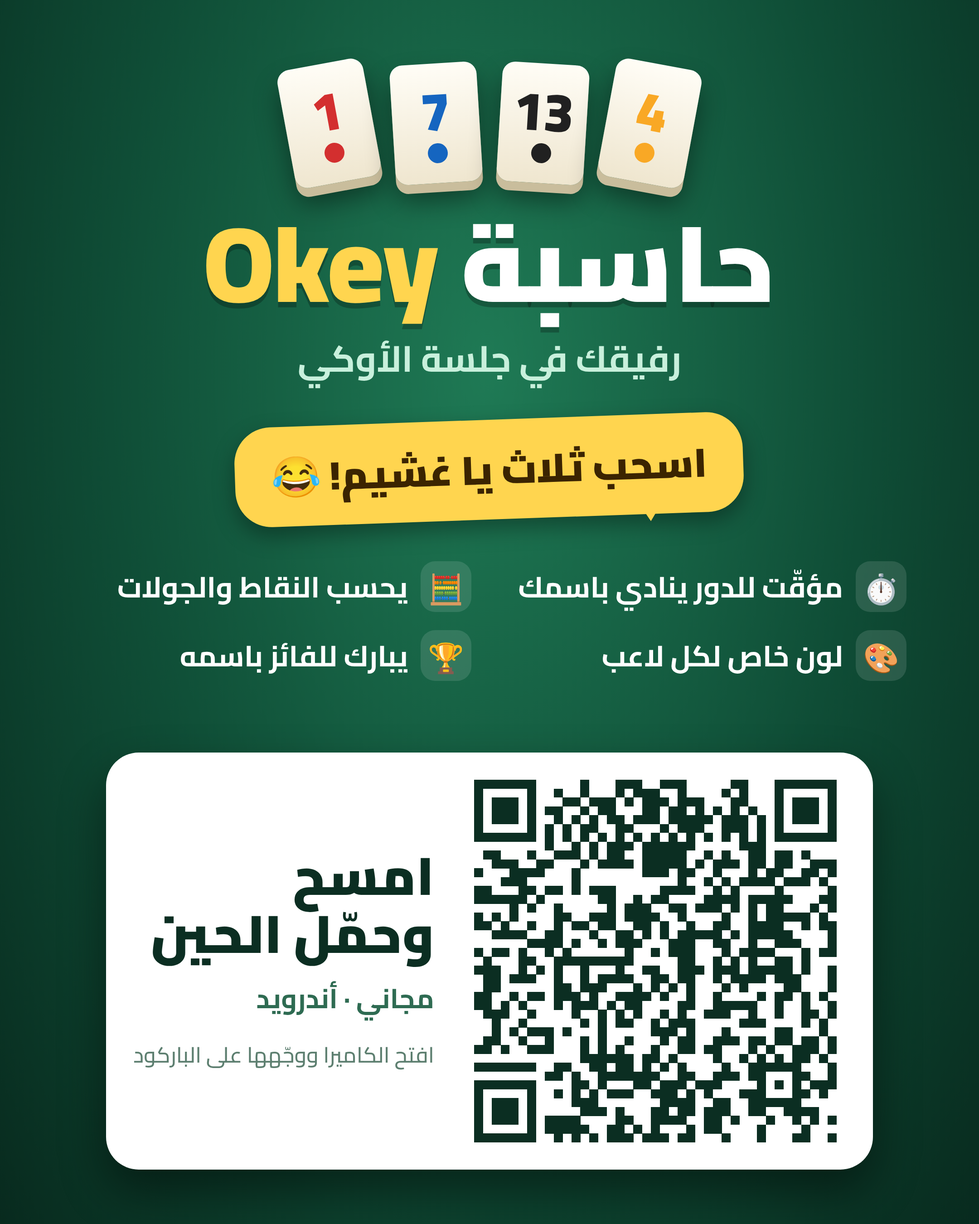
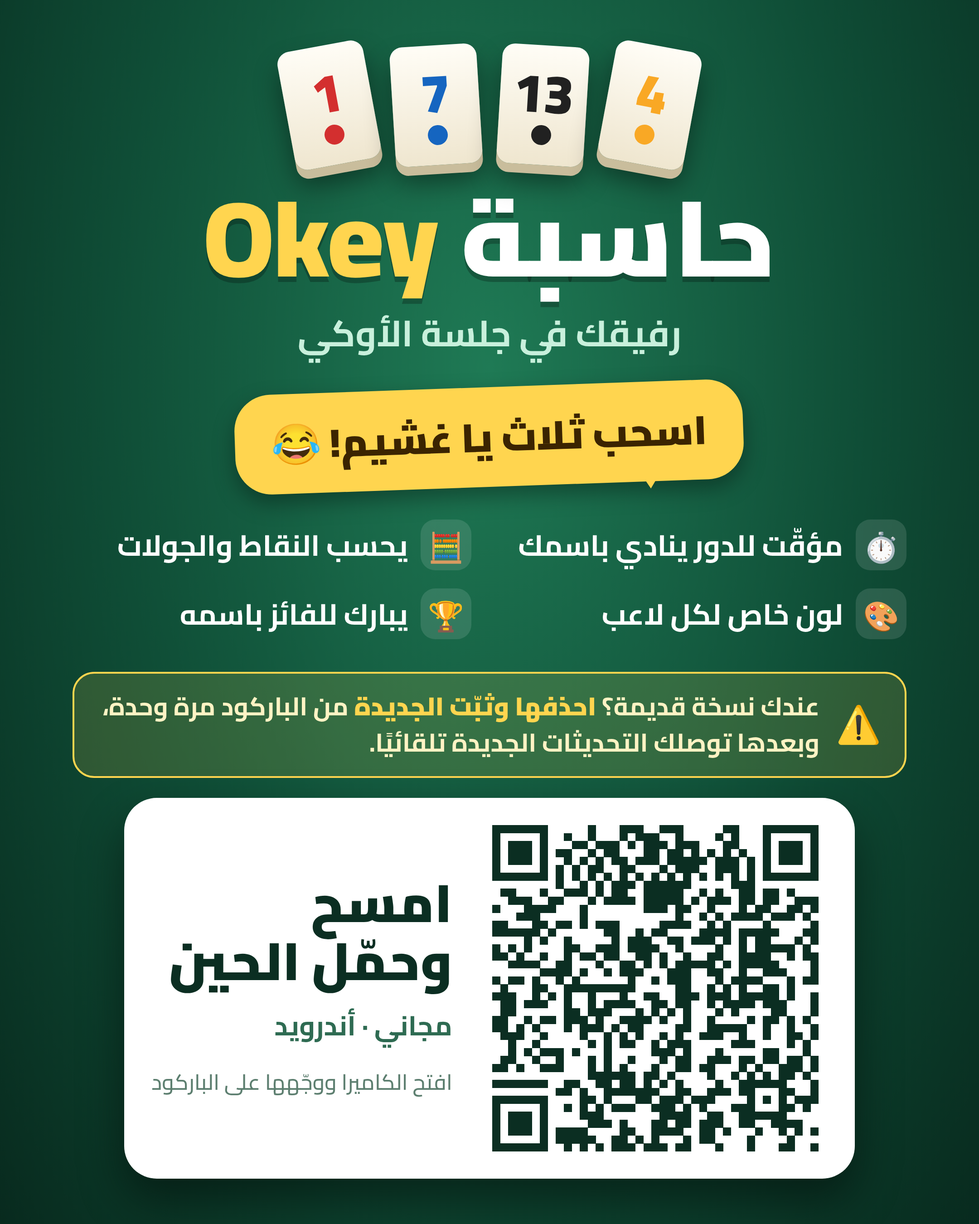
Poster: ask owners of the old build to reinstall once
Claude-Session: https://claude.ai/code/session_018ysiZqBb7QEeYJYqKRJgx6

Changed region(s): [[0.062, 0.0311, 0.9306, 0.9644]]

diff --git a/marketing/okey-ad.html b/marketing/okey-ad.html
@@ -4,8 +4,8 @@
 *{box-sizing:border-box;margin:0}
 body{width:1080px;height:1350px;font-family:Cairo,sans-serif;color:#fff;overflow:hidden;
 background:radial-gradient(ellipse at 50% 30%,#1f7a55 0%,#0f4d36 55%,#082a1e 100%)}
-.wrap{position:relative;height:100%;padding:70px 80px 60px;display:flex;flex-direction:column;align-items:center}
-.tiles{display:flex;gap:22px;margin-bottom:26px;direction:ltr}
+.wrap{position:relative;height:100%;padding:50px 80px 50px;display:flex;flex-direction:column;align-items:center}
+.tiles{display:flex;gap:22px;margin-bottom:18px;direction:ltr}
 .tile{width:96px;height:132px;background:linear-gradient(#fffdf6,#efe6cf);border-radius:14px;
 box-shadow:0 10px 0 #c9bd9c,0 18px 30px rgba(0,0,0,.45);transform:rotate(var(--r));display:flex;flex-direction:column;align-items:center;justify-content:center;gap:6px}
 .tile span{font:900 60px/1 Cairo;color:var(--c)}
@@ -13,17 +13,20 @@ box-shadow:0 10px 0 #c9bd9c,0 18px 30px rgba(0,0,0,.45);transform:rotate(var(--r
 h1{font-weight:900;font-size:118px;line-height:1.05;letter-spacing:-1px;text-shadow:0 6px 0 rgba(0,0,0,.25)}
 h1 b{color:#ffd54f}
 .sub{font-size:40px;font-weight:700;color:#c8f0dc;margin-top:6px}
-.bubble{margin-top:30px;background:#ffd54f;color:#3b2400;font-weight:900;font-size:44px;padding:14px 40px;border-radius:40px;position:relative;transform:rotate(-2deg);box-shadow:0 10px 24px rgba(0,0,0,.35)}
+.bubble{margin-top:22px;background:#ffd54f;color:#3b2400;font-weight:900;font-size:44px;padding:14px 40px;border-radius:40px;position:relative;transform:rotate(-2deg);box-shadow:0 10px 24px rgba(0,0,0,.35)}
 .bubble:after{content:"";position:absolute;bottom:-22px;right:90px;border:14px solid transparent;border-top:22px solid #ffd54f}
-.feat{margin-top:44px;display:grid;grid-template-columns:1fr 1fr;gap:16px 40px;font-size:32px;font-weight:700;width:100%}
+.feat{margin-top:34px;display:grid;grid-template-columns:1fr 1fr;gap:16px 40px;font-size:32px;font-weight:700;width:100%}
 .feat div{display:flex;align-items:center;gap:14px}
 .feat em{font-style:normal;width:56px;height:56px;border-radius:16px;background:rgba(255,255,255,.12);display:grid;place-items:center;font-size:32px;flex:none}
-.qrbox{margin-top:auto;display:flex;align-items:center;gap:44px;background:#fff;color:#0b2e22;border-radius:36px;padding:30px 40px 30px 30px;box-shadow:0 24px 50px rgba(0,0,0,.45)}
-.qr{width:400px;height:400px;flex:none}
+.qrbox{display:flex;align-items:center;gap:44px;background:#fff;color:#0b2e22;border-radius:36px;padding:30px 40px 30px 30px;box-shadow:0 24px 50px rgba(0,0,0,.45)}
+.qr{width:360px;height:360px;flex:none}
 .cta{display:flex;flex-direction:column;gap:12px;max-width:380px}
 .cta strong{font-size:58px;font-weight:900;line-height:1.1}
 .cta span{font-size:30px;font-weight:700;color:#2e6b52}
 .cta small{font-size:24px;color:#5d7f70;font-weight:500}
+.note{margin-top:auto;margin-bottom:22px;width:100%;display:flex;align-items:center;gap:18px;background:rgba(255,213,79,.14);border:2px solid #ffd54f;border-radius:24px;padding:16px 26px;font-size:28px;font-weight:700;line-height:1.45;color:#fff3c4}
+.note em{font-style:normal;font-size:40px;flex:none}
+.note b{color:#ffd54f;font-weight:900}
 </style></head><body><div class="wrap">
 <div class="tiles"><div class="tile" style="--c:#d32f2f;--r:-10.5deg"><span>1</span><i></i></div><div class="tile" style="--c:#1565c0;--r:-3.5deg"><span>7</span><i></i></div><div class="tile" style="--c:#212121;--r:3.5deg"><span>13</span><i></i></div><div class="tile" style="--c:#f9a825;--r:10.5deg"><span>4</span><i></i></div></div>
 <h1>حاسبة <b>Okey</b></h1>
@@ -35,6 +38,7 @@ h1 b{color:#ffd54f}
 <div><em>🎨</em>لون خاص لكل لاعب</div>
 <div><em>🏆</em>يبارك للفائز باسمه</div>
 </div>
+<div class="note"><em>⚠</em><div>عندك نسخة قديمة؟ <b>احذفها وثبّت الجديدة</b> من الباركود مرة وحدة، وبعدها توصلك التحديثات الجديدة تلقائيًا.</div></div>
 <div class="qrbox">
 <div class="qr"><svg xmlns="http://www.w3.org/2000/svg" viewBox="0 0 41 41" shape-rendering="crispEdges"><g fill="#0b2e22"><rect x="0" y="0" width="1.02" height="1.02"/><rect x="1" y="0" width="1.02" height="1.02"/><rect x="2" y="0" width="1.02" height="1.02"/><rect x="3" y="0" width="1.02" height="1.02"/><rect x="4" y="0" width="1.02" height="1.02"/><rect x="5" y="0" width="1.02" height="1.02"/><rect x="6" y="0" width="1.02" height="1.02"/><rect x="12" y="0" width="1.02" height="1.02"/><rect x="16" y="0" width="1.02" height="1.02"/><rect x="17" y="0" width="1.02" height="1.02"/><rect x="18" y="0" width="1.02" height="1.02"/><rect x="21" y="0" width="1.02" height="1.02"/><rect x="22" y="0" width="1.02" height="1.02"/><rect x="23" y="0" width="1.02" height="1.02"/><rect x="29" y="0" width="1.02" height="1.02"/><rect x="30" y="0" width="1.02" height="1.02"/><rect x="34" y="0" width="1.02" height="1.02"/><rect x="35" y="0" width="1.02" height="1.02"/><rect x="36" y="0" width="1.02" height="1.02"/><rect x="37" y="0" width="1.02" height="1.02"/><rect x="38" y="0" width="1.02" height="1.02"/><rect x="39" y="0" width="1.02" height="1.02"/><rect x="40" y="0" width="1.02" height="1.02"/><rect x="0" y="1" width="1.02" height="1.02"/><rect x="6" y="1" width="1.02" height="1.02"/><rect x="9" y="1" width="1.02" height="1.02"/><rect x="12" y="1" width="1.02" height="1.02"/><rect x="16" y="1" width="1.02" height="1.02"/><rect x="18" y="1" width="1.02" height="1.02"/><rect x="19" y="1" width="1.02" height="1.02"/><rect x="20" y="1" width="1.02" height="1.02"/><rect x="23" y="1" width="1.02" height="1.02"/><rect x="28" y="1" width="1.02" height="1.02"/><rect x="30" y="1" width="1.02" height="1.02"/><rect x="34" y="1" width="1.02" height="1.02"/><rect x="40" y="1" width="1.02" height="1.02"/><rect x="0" y="2" width="1.02" height="1.02"/><rect x="2" y="2" width="1.02" height="1.02"/><rect x="3" y="2" width="1.02" height="1.02"/><rect x="4" y="2" width="1.02" height="1.02"/><rect x="6" y="2" width="1.02" height="1.02"/><rect x="10" y="2" width="1.02" height="1.02"/><rect x="11" y="2" width="1.02" height="1.02"/><rect x="13" y="2" width="1.02" height="1.02"/><rect x="14" y="2" width="1.02" height="1.02"/><rect x="15" y="2" width="1.02" height="1.02"/><rect x="17" y="2" width="1.02" height="1.02"/><rect x="19" y="2" width="1.02" height="1.02"/><rect x="20" y="2" width="1.02" height="1.02"/><rect x="21" y="2" width="1.02" height="1.02"/><rect x="23" y="2" width="1.02" height="1.02"/><rect x="24" y="2" width="1.02" height="1.02"/><rect x="25" y="2" width="1.02" height="1.02"/><rect x="29" y="2" width="1.02" height="1.02"/><rect x="30" y="2" width="1.02" height="1.02"/><rect x="34" y="2" width="1.02" height="1.02"/><rect x="36" y="2" width="1.02" height="1.02"/><rect x="37" y="2" width="1.02" height="1.02"/><rect x="38" y="2" width="1.02" height="1.02"/><rect x="40" y="2" width="1.02" height="1.02"/><rect x="0" y="3" width="1.02" height="1.02"/><rect x="2" y="3" width="1.02" height="1.02"/><rect x="3" y="3" width="1.02" height="1.02"/><rect x="4" y="3" width="1.02" height="1.02"/><rect x="6" y="3" width="1.02" height="1.02"/><rect x="8" y="3" width="1.02" height="1.02"/><rect x="9" y="3" width="1.02" height="1.02"/><rect x="12" y="3" width="1.02" height="1.02"/><rect x="14" y="3" width="1.02" height="1.02"/><rect x="15" y="3" width="1.02" height="1.02"/><rect x="19" y="3" width="1.02" height="1.02"/><rect x="20" y="3" width="1.02" height="1.02"/><rect x="22" y="3" width="1.02" height="1.02"/><rect x="23" y="3" width="1.02" height="1.02"/><rect x="25" y="3" width="1.02" height="1.02"/><rect x="27" y="3" width="1.02" height="1.02"/><rect x="29" y="3" width="1.02" height="1.02"/><rect x="31" y="3" width="1.02" height="1.02"/><rect x="34" y="3" width="1.02" height="1.02"/><rect x="36" y="3" width="1.02" height="1.02"/><rect x="37" y="3" width="1.02" height="1.02"/><rect x="38" y="3" width="1.02" height="1.02"/><rect x="40" y="3" width="1.02" height="1.02"/><rect x="0" y="4" width="1.02" height="1.02"/><rect x="2" y="4" width="1.02" height="1.02"/><rect x="3" y="4" width="1.02" height="1.02"/><rect x="4" y="4" width="1.02" height="1.02"/><rect x="6" y="4" width="1.02" height="1.02"/><rect x="9" y="4" width="1.02" height="1.02"/><rect x="11" y="4" width="1.02" height="1.02"/><rect x="13" y="4" width="1.02" height="1.02"/><rect x="15" y="4" width="1.02" height="1.02"/><rect x="16" y="4" width="1.02" height="1.02"/><rect x="18" y="4" width="1.02" height="1.02"/><rect x="19" y="4" width="1.02" height="1.02"/><rect x="20" y="4" width="1.02" height="1.02"/><rect x="22" y="4" width="1.02" height="1.02"/><rect x="23" y="4" width="1.02" height="1.02"/><rect x="24" y="4" width="1.02" height="1.02"/><rect x="25" y="4" width="1.02" height="1.02"/><rect x="26" y="4" width="1.02" height="1.02"/><rect x="28" y="4" width="1.02" height="1.02"/><rect x="29" y="4" width="1.02" height="1.02"/><rect x="30" y="4" width="1.02" height="1.02"/><rect x="32" y="4" width="1.02" height="1.02"/><rect x="34" y="4" width="1.02" height="1.02"/><rect x="36" y="4" width="1.02" height="1.02"/><rect x="37" y="4" width="1.02" height="1.02"/><rect x="38" y="4" width="1.02" height="1.02"/><rect x="40" y="4" width="1.02" height="1.02"/><rect x="0" y="5" width="1.02" height="1.02"/><rect x="6" y="5" width="1.02" height="1.02"/><rect x="8" y="5" width="1.02" height="1.02"/><rect x="10" y="5" width="1.02" height="1.02"/><rect x="12" y="5" width="1.02" height="1.02"/><rect x="13" y="5" width="1.02" height="1.02"/><rect x="16" y="5" width="1.02" height="1.02"/><rect x="17" y="5" width="1.02" height="1.02"/><rect x="21" y="5" width="1.02" height="1.02"/><rect x="23" y="5" width="1.02" height="1.02"/><rect x="24" y="5" width="1.02" height="1.02"/><rect x="25" y="5" width="1.02" height="1.02"/><rect x="28" y="5" width="1.02" height="1.02"/><rect x="29" y="5" width="1.02" height="1.02"/><rect x="30" y="5" width="1.02" height="1.02"/><rect x="32" y="5" width="1.02" height="1.02"/><rect x="34" y="5" width="1.02" height="1.02"/><rect x="40" y="5" width="1.02" height="1.02"/><rect x="0" y="6" width="1.02" height="1.02"/><rect x="1" y="6" width="1.02" height="1.02"/><rect x="2" y="6" width="1.02" height="1.02"/><rect x="3" y="6" width="1.02" height="1.02"/><rect x="4" y="6" width="1.02" height="1.02"/><rect x="5" y="6" width="1.02" height="1.02"/><rect x="6" y="6" width="1.02" height="1.02"/><rect x="8" y="6" width="1.02" height="1.02"/><rect x="10" y="6" width="1.02" height="1.02"/><rect x="12" y="6" width="1.02" height="1.02"/><rect x="14" y="6" width="1.02" height="1.02"/><rect x="16" y="6" width="1.02" height="1.02"/><rect x="18" y="6" width="1.02" height="1.02"/><rect x="20" y="6" width="1.02" height="1.02"/><rect x="22" y="6" width="1.02" height="1.02"/><rect x="24" y="6" width="1.02" height="1.02"/><rect x="26" y="6" width="1.02" height="1.02"/><rect x="28" y="6" width="1.02" height="1.02"/><rect x="30" y="6" width="1.02" height="1.02"/><rect x="32" y="6" width="1.02" height="1.02"/><rect x="34" y="6" width="1.02" height="1.02"/><rect x="35" y="6" width="1.02" height="1.02"/><rect x="36" y="6" width="1.02" height="1.02"/><rect x="37" y="6" width="1.02" height="1.02"/><rect x="38" y="6" width="1.02" height="1.02"/><rect x="39" y="6" width="1.02" height="1.02"/><rect x="40" y="6" width="1.02" height="1.02"/><rect x="8" y="7" width="1.02" height="1.02"/><rect x="11" y="7" width="1.02" height="1.02"/><rect x="13" y="7" width="1.02" height="1.02"/><rect x="15" y="7" width="1.02" height="1.02"/><rect x="16" y="7" width="1.02" height="1.02"/><rect x="17" y="7" width="1.02" height="1.02"/><rect x="19" y="7" width="1.02" height="1.02"/><rect x="20" y="7" width="1.02" height="1.02"/><rect x="21" y="7" width="1.02" height="1.02"/><rect x="22" y="7" width="1.02" height="1.02"/><rect x="23" y="7" width="1.02" height="1.02"/><rect x="24" y="7" width="1.02" height="1.02"/><rect x="30" y="7" width="1.02" height="1.02"/><rect x="31" y="7" width="1.02" height="1.02"/><rect x="32" y="7" width="1.02" height="1.02"/><rect x="1" y="8" width="1.02" height="1.02"/><rect x="2" y="8" width="1.02" height="1.02"/><rect x="6" y="8" width="1.02" height="1.02"/><rect x="9" y="8" width="1.02" height="1.02"/><rect x="10" y="8" width="1.02" height="1.02"/><rect x="11" y="8" width="1.02" height="1.02"/><rect x="13" y="8" width="1.02" height="1.02"/><rect x="15" y="8" width="1.02" height="1.02"/><rect x="16" y="8" width="1.02" height="1.02"/><rect x="19" y="8" width="1.02" height="1.02"/><rect x="20" y="8" width="1.02" height="1.02"/><rect x="21" y="8" width="1.02" height="1.02"/><rect x="22" y="8" width="1.02" height="1.02"/><rect x="23" y="8" width="1.02" height="1.02"/><rect x="26" y="8" width="1.02" height="1.02"/><rect x="28" y="8" width="1.02" height="1.02"/><rect x="31" y="8" width="1.02" height="1.02"/><rect x="32" y="8" width="1.02" height="1.02"/><rect x="34" y="8" width="1.02" height="1.02"/><rect x="35" y="8" width="1.02" height="1.02"/><rect x="37" y="8" width="1.02" height="1.02"/><rect x="2" y="9" width="1.02" height="1.02"/><rect x="3" y="9" width="1.02" height="1.02"/><rect x="4" y="9" width="1.02" height="1.02"/><rect x="7" y="9" width="1.02" height="1.02"/><rect x="8" y="9" width="1.02" height="1.02"/><rect x="12" y="9" width="1.02" height="1.02"/><rect x="14" y="9" width="1.02" height="1.02"/><rect x="15" y="9" width="1.02" height="1.02"/><rect x="16" y="9" width="1.02" height="1.02"/><rect x="17" y="9" width="1.02" height="1.02"/><rect x="19" y="9" width="1.02" height="1.02"/><rect x="20" y="9" width="1.02" height="1.02"/><rect x="21" y="9" width="1.02" height="1.02"/><rect x="22" y="9" width="1.02" height="1.02"/><rect x="23" y="9" width="1.02" height="1.02"/><rect x="25" y="9" width="1.02" height="1.02"/><rect x="27" y="9" width="1.02" height="1.02"/><rect x="28" y="9" width="1.02" height="1.02"/><rect x="29" y="9" width="1.02" height="1.02"/><rect x="31" y="9" width="1.02" height="1.02"/><rect x="32" y="9" width="1.02" height="1.02"/><rect x="34" y="9" width="1.02" height="1.02"/><rect x="35" y="9" width="1.02" height="1.02"/><rect x="38" y="9" width="1.02" height="1.02"/><rect x="39" y="9" width="1.02" height="1.02"/><rect x="40" y="9" width="1.02" height="1.02"/><rect x="0" y="10" width="1.02" height="1.02"/><rect x="4" y="10" width="1.02" height="1.02"/><rect x="5" y="10" width="1.02" height="1.02"/><rect x="6" y="10" width="1.02" height="1.02"/><rect x="7" y="10" width="1.02" height="1.02"/><rect x="11" y="10" width="1.02" height="1.02"/><rect x="19" y="10" width="1.02" height="1.02"/><rect x="20" y="10" width="1.02" height="1.02"/><rect x="21" y="10" width="1.02" height="1.02"/><rect x="23" y="10" width="1.02" height="1.02"/><rect x="24" y="10" width="1.02" height="1.02"/><rect x="27" y="10" width="1.02" height="1.02"/><rect x="31" y="10" width="1.02" height="1.02"/><rect x="33" y="10" width="1.02" height="1.02"/><rect x="34" y="10" width="1.02" height="1.02"/><rect x="37" y="10" width="1.02" height="1.02"/><rect x="38" y="10" width="1.02" height="1.02"/><rect x="40" y="10" width="1.02" height="1.02"/><rect x="3" y="11" width="1.02" height="1.02"/><rect x="4" y="11" width="1.02" height="1.02"/><rect x="5" y="11" width="1.02" height="1.02"/><rect x="11" y="11" width="1.02" height="1.02"/><rect x="23" y="11" width="1.02" height="1.02"/><rect x="26" y="11" width="1.02" height="1.02"/><rect x="28" y="11" width="1.02" height="1.02"/><rect x="30" y="11" width="1.02" height="1.02"/><rect x="31" y="11" width="1.02" height="1.02"/><rect x="32" y="11" width="1.02" height="1.02"/><rect x="33" y="11" width="1.02" height="1.02"/><rect x="35" y="11" width="1.02" height="1.02"/><rect x="36" y="11" width="1.02" height="1.02"/><rect x="37" y="11" width="1.02" height="1.02"/><rect x="39" y="11" width="1.02" height="1.02"/><rect x="0" y="12" width="1.02" height="1.02"/><rect x="1" y="12" width="1.02" height="1.02"/><rect x="5" y="12" width="1.02" height="1.02"/><rect x="6" y="12" width="1.02" height="1.02"/><rect x="8" y="12" width="1.02" height="1.02"/><rect x="9" y="12" width="1.02" height="1.02"/><rect x="11" y="12" width="1.02" height="1.02"/><rect x="13" y="12" width="1.02" height="1.02"/><rect x="14" y="12" width="1.02" height="1.02"/><rect x="15" y="12" width="1.02" height="1.02"/><rect x="21" y="12" width="1.02" height="1.02"/><rect x="22" y="12" width="1.02" height="1.02"/><rect x="23" y="12" width="1.02" height="1.02"/><rect x="24" y="12" width="1.02" height="1.02"/><rect x="27" y="12" width="1.02" height="1.02"/><rect x="29" y="12" width="1.02" height="1.02"/><rect x="34" y="12" width="1.02" height="1.02"/><rect x="40" y="12" width="1.02" height="1.02"/><rect x="0" y="13" width="1.02" height="1.02"/><rect x="1" y="13" width="1.02" height="1.02"/><rect x="2" y="13" width="1.02" height="1.02"/><rect x="3" y="13" width="1.02" height="1.02"/><rect x="4" y="13" width="1.02" height="1.02"/><rect x="5" y="13" width="1.02" height="1.02"/><rect x="7" y="13" width="1.02" height="1.02"/><rect x="14" y="13" width="1.02" height="1.02"/><rect x="15" y="13" width="1.02" height="1.02"/><rect x="18" y="13" width="1.02" height="1.02"/><rect x="20" y="13" width="1.02" height="1.02"/><rect x="21" y="13" width="1.02" height="1.02"/><rect x="26" y="13" width="1.02" height="1.02"/><rect x="27" y="13" width="1.02" height="1.02"/><rect x="28" y="13" width="1.02" height="1.02"/><rect x="29" y="13" width="1.02" height="1.02"/><rect x="31" y="13" width="1.02" height="1.02"/><rect x="32" y="13" width="1.02" height="1.02"/><rect x="33" y="13" width="1.02" height="1.02"/><rect x="34" y="13" width="1.02" height="1.02"/><rect x="35" y="13" width="1.02" height="1.02"/><rect x="39" y="13" width="1.02" height="1.02"/><rect x="40" y="13" width="1.02" height="1.02"/><rect x="4" y="14" width="1.02" height="1.02"/><rect x="6" y="14" width="1.02" height="1.02"/><rect x="9" y="14" width="1.02" height="1.02"/><rect x="15" y="14" width="1.02" height="1.02"/><rect x="17" y="14" width="1.02" height="1.02"/><rect x="18" y="14" width="1.02" height="1.02"/><rect x="19" y="14" width="1.02" height="1.02"/><rect x="22" y="14" width="1.02" height="1.02"/><rect x="23" y="14" width="1.02" height="1.02"/><rect x="25" y="14" width="1.02" height="1.02"/><rect x="26" y="14" width="1.02" height="1.02"/><rect x="27" y="14" width="1.02" height="1.02"/><rect x="29" y="14" width="1.02" height="1.02"/><rect x="31" y="14" width="1.02" height="1.02"/><rect x="33" y="14" width="1.02" height="1.02"/><rect x="34" y="14" width="1.02" height="1.02"/><rect x="38" y="14" width="1.02" height="1.02"/><rect x="40" y="14" width="1.02" height="1.02"/><rect x="0" y="15" width="1.02" height="1.02"/><rect x="2" y="15" width="1.02" height="1.02"/><rect x="4" y="15" width="1.02" height="1.02"/><rect x="9" y="15" width="1.02" height="1.02"/><rect x="10" y="15" width="1.02" height="1.02"/><rect x="13" y="15" width="1.02" height="1.02"/><rect x="14" y="15" width="1.02" height="1.02"/><rect x="15" y="15" width="1.02" height="1.02"/><rect x="17" y="15" width="1.02" height="1.02"/><rect x="18" y="15" width="1.02" height="1.02"/><rect x="19" y="15" width="1.02" height="1.02"/><rect x="20" y="15" width="1.02" height="1.02"/><rect x="23" y="15" width="1.02" height="1.02"/><rect x="28" y="15" width="1.02" height="1.02"/><rect x="31" y="15" width="1.02" height="1.02"/><rect x="33" y="15" width="1.02" height="1.02"/><rect x="34" y="15" width="1.02" height="1.02"/><rect x="35" y="15" width="1.02" height="1.02"/><rect x="36" y="15" width="1.02" height="1.02"/><rect x="37" y="15" width="1.02" height="1.02"/><rect x="39" y="15" width="1.02" height="1.02"/><rect x="0" y="16" width="1.02" height="1.02"/><rect x="1" y="16" width="1.02" height="1.02"/><rect x="3" y="16" width="1.02" height="1.02"/><rect x="6" y="16" width="1.02" height="1.02"/><rect x="9" y="16" width="1.02" height="1.02"/><rect x="11" y="16" width="1.02" height="1.02"/><rect x="12" y="16" width="1.02" height="1.02"/><rect x="14" y="16" width="1.02" height="1.02"/><rect x="15" y="16" width="1.02" height="1.02"/><rect x="18" y="16" width="1.02" height="1.02"/><rect x="19" y="16" width="1.02" height="1.02"/><rect x="21" y="16" width="1.02" height="1.02"/><rect x="24" y="16" width="1.02" height="1.02"/><rect x="27" y="16" width="1.02" height="1.02"/><rect x="28" y="16" width="1.02" height="1.02"/><rect x="31" y="16" width="1.02" height="1.02"/><rect x="32" y="16" width="1.02" height="1.02"/><rect x="33" y="16" width="1.02" height="1.02"/><rect x="34" y="16" width="1.02" height="1.02"/><rect x="37" y="16" width="1.02" height="1.02"/><rect x="39" y="16" width="1.02" height="1.02"/><rect x="40" y="16" width="1.02" height="1.02"/><rect x="2" y="17" width="1.02" height="1.02"/><rect x="3" y="17" width="1.02" height="1.02"/><rect x="4" y="17" width="1.02" height="1.02"/><rect x="5" y="17" width="1.02" height="1.02"/><rect x="8" y="17" width="1.02" height="1.02"/><rect x="9" y="17" width="1.02" height="1.02"/><rect x="13" y="17" width="1.02" height="1.02"/><rect x="16" y="17" width="1.02" height="1.02"/><rect x="17" y="17" width="1.02" height="1.02"/><rect x="19" y="17" width="1.02" height="1.02"/><rect x="21" y="17" width="1.02" height="1.02"/><rect x="23" y="17" width="1.02" height="1.02"/><rect x="24" y="17" width="1.02" height="1.02"/><rect x="25" y="17" width="1.02" height="1.02"/><rect x="26" y="17" width="1.02" height="1.02"/><rect x="27" y="17" width="1.02" height="1.02"/><rect x="29" y="17" width="1.02" height="1.02"/><rect x="31" y="17" width="1.02" height="1.02"/><rect x="32" y="17" width="1.02" height="1.02"/><rect x="33" y="17" width="1.02" height="1.02"/><rect x="34" y="17" width="1.02" height="1.02"/><rect x="35" y="17" width="1.02" height="1.02"/><rect x="40" y="17" width="1.02" height="1.02"/><rect x="6" y="18" width="1.02" height="1.02"/><rect x="7" y="18" width="1.02" height="1.02"/><rect x="8" y="18" width="1.02" height="1.02"/><rect x="9" y="18" width="1.02" height="1.02"/><rect x="11" y="18" width="1.02" height="1.02"/><rect x="14" y="18" width="1.02" height="1.02"/><rect x="16" y="18" width="1.02" height="1.02"/><rect x="17" y="18" width="1.02" height="1.02"/><rect x="18" y="18" width="1.02" height="1.02"/><rect x="22" y="18" width="1.02" height="1.02"/><rect x="23" y="18" width="1.02" height="1.02"/><rect x="24" y="18" width="1.02" height="1.02"/><rect x="27" y="18" width="1.02" height="1.02"/><rect x="28" y="18" width="1.02" height="1.02"/><rect x="31" y="18" width="1.02" height="1.02"/><rect x="34" y="18" width="1.02" height="1.02"/><rect x="35" y="18" width="1.02" height="1.02"/><rect x="36" y="18" width="1.02" height="1.02"/><rect x="40" y="18" width="1.02" height="1.02"/><rect x="0" y="19" width="1.02" height="1.02"/><rect x="2" y="19" width="1.02" height="1.02"/><rect x="3" y="19" width="1.02" height="1.02"/><rect x="5" y="19" width="1.02" height="1.02"/><rect x="8" y="19" width="1.02" height="1.02"/><rect x="10" y="19" width="1.02" height="1.02"/><rect x="17" y="19" width="1.02" height="1.02"/><rect x="20" y="19" width="1.02" height="1.02"/><rect x="22" y="19" width="1.02" height="1.02"/><rect x="23" y="19" width="1.02" height="1.02"/><rect x="24" y="19" width="1.02" height="1.02"/><rect x="28" y="19" width="1.02" height="1.02"/><rect x="30" y="19" width="1.02" height="1.02"/><rect x="31" y="19" width="1.02" height="1.02"/><rect x="32" y="19" width="1.02" height="1.02"/><rect x="33" y="19" width="1.02" height="1.02"/><rect x="37" y="19" width="1.02" height="1.02"/><rect x="39" y="19" width="1.02" height="1.02"/><rect x="40" y="19" width="1.02" height="1.02"/><rect x="1" y="20" width="1.02" height="1.02"/><rect x="5" y="20" width="1.02" height="1.02"/><rect x="6" y="20" width="1.02" height="1.02"/><rect x="9" y="20" width="1.02" height="1.02"/><rect x="10" y="20" width="1.02" height="1.02"/><rect x="11" y="20" width="1.02" height="1.02"/><rect x="12" y="20" width="1.02" height="1.02"/><rect x="13" y="20" width="1.02" height="1.02"/><rect x="14" y="20" width="1.02" height="1.02"/><rect x="15" y="20" width="1.02" height="1.02"/><rect x="16" y="20" width="1.02" height="1.02"/><rect x="17" y="20" width="1.02" height="1.02"/><rect x="23" y="20" width="1.02" height="1.02"/><rect x="24" y="20" width="1.02" height="1.02"/><rect x="27" y="20" width="1.02" height="1.02"/><rect x="29" y="20" width="1.02" height="1.02"/><rect x="31" y="20" width="1.02" height="1.02"/><rect x="34" y="20" width="1.02" height="1.02"/><rect x="35" y="20" width="1.02" height="1.02"/><rect x="37" y="20" width="1.02" height="1.02"/><rect x="0" y="21" width="1.02" height="1.02"/><rect x="1" y="21" width="1.02" height="1.02"/><rect x="2" y="21" width="1.02" height="1.02"/><rect x="5" y="21" width="1.02" height="1.02"/><rect x="7" y="21" width="1.02" height="1.02"/><rect x="9" y="21" width="1.02" height="1.02"/><rect x="12" y="21" width="1.02" height="1.02"/><rect x="16" y="21" width="1.02" height="1.02"/><rect x="19" y="21" width="1.02" height="1.02"/><rect x="20" y="21" width="1.02" height="1.02"/><rect x="23" y="21" width="1.02" height="1.02"/><rect x="24" y="21" width="1.02" height="1.02"/><rect x="25" y="21" width="1.02" height="1.02"/><rect x="27" y="21" width="1.02" height="1.02"/><rect x="28" y="21" width="1.02" height="1.02"/><rect x="29" y="21" width="1.02" height="1.02"/><rect x="31" y="21" width="1.02" height="1.02"/><rect x="32" y="21" width="1.02" height="1.02"/><rect x="33" y="21" width="1.02" height="1.02"/><rect x="34" y="21" width="1.02" height="1.02"/><rect x="35" y="21" width="1.02" height="1.02"/><rect x="37" y="21" width="1.02" height="1.02"/><rect x="40" y="21" width="1.02" height="1.02"/><rect x="1" y="22" width="1.02" height="1.02"/><rect x="2" y="22" width="1.02" height="1.02"/><rect x="4" y="22" width="1.02" height="1.02"/><rect x="5" y="22" width="1.02" height="1.02"/><rect x="6" y="22" width="1.02" height="1.02"/><rect x="9" y="22" width="1.02" height="1.02"/><rect x="12" y="22" width="1.02" height="1.02"/><rect x="14" y="22" width="1.02" height="1.02"/><rect x="15" y="22" width="1.02" height="1.02"/><rect x="16" y="22" width="1.02" height="1.02"/><rect x="17" y="22" width="1.02" height="1.02"/><rect x="20" y="22" width="1.02" height="1.02"/><rect x="21" y="22" width="1.02" height="1.02"/><rect x="23" y="22" width="1.02" height="1.02"/><rect x="24" y="22" width="1.02" height="1.02"/><rect x="27" y="22" width="1.02" height="1.02"/><rect x="29" y="22" width="1.02" height="1.02"/><rect x="30" y="22" width="1.02" height="1.02"/><rect x="31" y="22" width="1.02" height="1.02"/><rect x="32" y="22" width="1.02" height="1.02"/><rect x="34" y="22" width="1.02" height="1.02"/><rect x="35" y="22" width="1.02" height="1.02"/><rect x="36" y="22" width="1.02" height="1.02"/><rect x="40" y="22" width="1.02" height="1.02"/><rect x="1" y="23" width="1.02" height="1.02"/><rect x="2" y="23" width="1.02" height="1.02"/><rect x="9" y="23" width="1.02" height="1.02"/><rect x="10" y="23" width="1.02" height="1.02"/><rect x="12" y="23" width="1.02" height="1.02"/><rect x="13" y="23" width="1.02" height="1.02"/><rect x="14" y="23" width="1.02" height="1.02"/><rect x="18" y="23" width="1.02" height="1.02"/><rect x="20" y="23" width="1.02" height="1.02"/><rect x="22" y="23" width="1.02" height="1.02"/><rect x="24" y="23" width="1.02" height="1.02"/><rect x="28" y="23" width="1.02" height="1.02"/><rect x="30" y="23" width="1.02" height="1.02"/><rect x="35" y="23" width="1.02" height="1.02"/><rect x="36" y="23" width="1.02" height="1.02"/><rect x="40" y="23" width="1.02" height="1.02"/><rect x="0" y="24" width="1.02" height="1.02"/><rect x="1" y="24" width="1.02" height="1.02"/><rect x="4" y="24" width="1.02" height="1.02"/><rect x="6" y="24" width="1.02" height="1.02"/><rect x="7" y="24" width="1.02" height="1.02"/><rect x="9" y="24" width="1.02" height="1.02"/><rect x="10" y="24" width="1.02" height="1.02"/><rect x="11" y="24" width="1.02" height="1.02"/><rect x="13" y="24" width="1.02" height="1.02"/><rect x="16" y="24" width="1.02" height="1.02"/><rect x="17" y="24" width="1.02" height="1.02"/><rect x="18" y="24" width="1.02" height="1.02"/><rect x="19" y="24" width="1.02" height="1.02"/><rect x="21" y="24" width="1.02" height="1.02"/><rect x="24" y="24" width="1.02" height="1.02"/><rect x="27" y="24" width="1.02" height="1.02"/><rect x="32" y="24" width="1.02" height="1.02"/><rect x="34" y="24" width="1.02" height="1.02"/><rect x="35" y="24" width="1.02" height="1.02"/><rect x="37" y="24" width="1.02" height="1.02"/><rect x="39" y="24" width="1.02" height="1.02"/><rect x="0" y="25" width="1.02" height="1.02"/><rect x="1" y="25" width="1.02" height="1.02"/><rect x="3" y="25" width="1.02" height="1.02"/><rect x="5" y="25" width="1.02" height="1.02"/><rect x="9" y="25" width="1.02" height="1.02"/><rect x="11" y="25" width="1.02" height="1.02"/><rect x="12" y="25" width="1.02" height="1.02"/><rect x="13" y="25" width="1.02" height="1.02"/><rect x="15" y="25" width="1.02" height="1.02"/><rect x="17" y="25" width="1.02" height="1.02"/><rect x="18" y="25" width="1.02" height="1.02"/><rect x="23" y="25" width="1.02" height="1.02"/><rect x="24" y="25" width="1.02" height="1.02"/><rect x="27" y="25" width="1.02" height="1.02"/><rect x="28" y="25" width="1.02" height="1.02"/><rect x="29" y="25" width="1.02" height="1.02"/><rect x="30" y="25" width="1.02" height="1.02"/><rect x="31" y="25" width="1.02" height="1.02"/><rect x="34" y="25" width="1.02" height="1.02"/><rect x="37" y="25" width="1.02" height="1.02"/><rect x="40" y="25" width="1.02" height="1.02"/><rect x="1" y="26" width="1.02" height="1.02"/><rect x="2" y="26" width="1.02" height="1.02"/><rect x="3" y="26" width="1.02" height="1.02"/><rect x="6" y="26" width="1.02" height="1.02"/><rect x="11" y="26" width="1.02" height="1.02"/><rect x="14" y="26" width="1.02" height="1.02"/><rect x="16" y="26" width="1.02" height="1.02"/><rect x="18" y="26" width="1.02" height="1.02"/><rect x="21" y="26" width="1.02" height="1.02"/><rect x="23" y="26" width="1.02" height="1.02"/><rect x="26" y="26" width="1.02" height="1.02"/><rect x="27" y="26" width="1.02" height="1.02"/><rect x="28" y="26" width="1.02" height="1.02"/><rect x="31" y="26" width="1.02" height="1.02"/><rect x="34" y="26" width="1.02" height="1.02"/><rect x="37" y="26" width="1.02" height="1.02"/><rect x="38" y="26" width="1.02" height="1.02"/><rect x="40" y="26" width="1.02" height="1.02"/><rect x="2" y="27" width="1.02" height="1.02"/><rect x="5" y="27" width="1.02" height="1.02"/><rect x="12" y="27" width="1.02" height="1.02"/><rect x="14" y="27" width="1.02" height="1.02"/><rect x="16" y="27" width="1.02" height="1.02"/><rect x="17" y="27" width="1.02" height="1.02"/><rect x="20" y="27" width="1.02" height="1.02"/><rect x="22" y="27" width="1.02" height="1.02"/><rect x="23" y="27" width="1.02" height="1.02"/><rect x="24" y="27" width="1.02" height="1.02"/><rect x="30" y="27" width="1.02" height="1.02"/><rect x="31" y="27" width="1.02" height="1.02"/><rect x="32" y="27" width="1.02" height="1.02"/><rect x="37" y="27" width="1.02" height="1.02"/><rect x="39" y="27" width="1.02" height="1.02"/><rect x="2" y="28" width="1.02" height="1.02"/><rect x="4" y="28" width="1.02" height="1.02"/><rect x="6" y="28" width="1.02" height="1.02"/><rect x="7" y="28" width="1.02" height="1.02"/><rect x="8" y="28" width="1.02" height="1.02"/><rect x="10" y="28" width="1.02" height="1.02"/><rect x="14" y="28" width="1.02" height="1.02"/><rect x="20" y="28" width="1.02" height="1.02"/><rect x="21" y="28" width="1.02" height="1.02"/><rect x="22" y="28" width="1.02" height="1.02"/><rect x="24" y="28" width="1.02" height="1.02"/><rect x="28" y="28" width="1.02" height="1.02"/><rect x="34" y="28" width="1.02" height="1.02"/><rect x="35" y="28" width="1.02" height="1.02"/><rect x="39" y="28" width="1.02" height="1.02"/><rect x="1" y="29" width="1.02" height="1.02"/><rect x="2" y="29" width="1.02" height="1.02"/><rect x="5" y="29" width="1.02" height="1.02"/><rect x="8" y="29" width="1.02" height="1.02"/><rect x="12" y="29" width="1.02" height="1.02"/><rect x="14" y="29" width="1.02" height="1.02"/><rect x="17" y="29" width="1.02" height="1.02"/><rect x="21" y="29" width="1.02" height="1.02"/><rect x="23" y="29" width="1.02" height="1.02"/><rect x="24" y="29" width="1.02" height="1.02"/><rect x="27" y="29" width="1.02" height="1.02"/><rect x="28" y="29" width="1.02" height="1.02"/><rect x="29" y="29" width="1.02" height="1.02"/><rect x="31" y="29" width="1.02" height="1.02"/><rect x="32" y="29" width="1.02" height="1.02"/><rect x="34" y="29" width="1.02" height="1.02"/><rect x="35" y="29" width="1.02" height="1.02"/><rect x="37" y="29" width="1.02" height="1.02"/><rect x="38" y="29" width="1.02" height="1.02"/><rect x="40" y="29" width="1.02" height="1.02"/><rect x="0" y="30" width="1.02" height="1.02"/><rect x="1" y="30" width="1.02" height="1.02"/><rect x="3" y="30" width="1.02" height="1.02"/><rect x="6" y="30" width="1.02" height="1.02"/><rect x="7" y="30" width="1.02" height="1.02"/><rect x="8" y="30" width="1.02" height="1.02"/><rect x="12" y="30" width="1.02" height="1.02"/><rect x="14" y="30" width="1.02" height="1.02"/><rect x="16" y="30" width="1.02" height="1.02"/><rect x="20" y="30" width="1.02" height="1.02"/><rect x="23" y="30" width="1.02" height="1.02"/><rect x="24" y="30" width="1.02" height="1.02"/><rect x="26" y="30" width="1.02" height="1.02"/><rect x="27" y="30" width="1.02" height="1.02"/><rect x="31" y="30" width="1.02" height="1.02"/><rect x="33" y="30" width="1.02" height="1.02"/><rect x="36" y="30" width="1.02" height="1.02"/><rect x="37" y="30" width="1.02" height="1.02"/><rect x="38" y="30" width="1.02" height="1.02"/><rect x="40" y="30" width="1.02" height="1.02"/><rect x="12" y="31" width="1.02" height="1.02"/><rect x="13" y="31" width="1.02" height="1.02"/><rect x="14" y="31" width="1.02" height="1.02"/><rect x="15" y="31" width="1.02" height="1.02"/><rect x="16" y="31" width="1.02" height="1.02"/><rect x="17" y="31" width="1.02" height="1.02"/><rect x="19" y="31" width="1.02" height="1.02"/><rect x="20" y="31" width="1.02" height="1.02"/><rect x="22" y="31" width="1.02" height="1.02"/><rect x="27" y="31" width="1.02" height="1.02"/><rect x="30" y="31" width="1.02" height="1.02"/><rect x="32" y="31" width="1.02" height="1.02"/><rect x="34" y="31" width="1.02" height="1.02"/><rect x="36" y="31" width="1.02" height="1.02"/><rect x="37" y="31" width="1.02" height="1.02"/><rect x="39" y="31" width="1.02" height="1.02"/><rect x="0" y="32" width="1.02" height="1.02"/><rect x="1" y="32" width="1.02" height="1.02"/><rect x="2" y="32" width="1.02" height="1.02"/><rect x="3" y="32" width="1.02" height="1.02"/><rect x="4" y="32" width="1.02" height="1.02"/><rect x="5" y="32" width="1.02" height="1.02"/><rect x="6" y="32" width="1.02" height="1.02"/><rect x="9" y="32" width="1.02" height="1.02"/><rect x="10" y="32" width="1.02" height="1.02"/><rect x="13" y="32" width="1.02" height="1.02"/><rect x="14" y="32" width="1.02" height="1.02"/><rect x="16" y="32" width="1.02" height="1.02"/><rect x="17" y="32" width="1.02" height="1.02"/><rect x="19" y="32" width="1.02" height="1.02"/><rect x="21" y="32" width="1.02" height="1.02"/><rect x="23" y="32" width="1.02" height="1.02"/><rect x="28" y="32" width="1.02" height="1.02"/><rect x="31" y="32" width="1.02" height="1.02"/><rect x="32" y="32" width="1.02" height="1.02"/><rect x="33" y="32" width="1.02" height="1.02"/><rect x="34" y="32" width="1.02" height="1.02"/><rect x="35" y="32" width="1.02" height="1.02"/><rect x="36" y="32" width="1.02" height="1.02"/><rect x="40" y="32" width="1.02" height="1.02"/><rect x="8" y="33" width="1.02" height="1.02"/><rect x="9" y="33" width="1.02" height="1.02"/><rect x="11" y="33" width="1.02" height="1.02"/><rect x="14" y="33" width="1.02" height="1.02"/><rect x="15" y="33" width="1.02" height="1.02"/><rect x="16" y="33" width="1.02" height="1.02"/><rect x="17" y="33" width="1.02" height="1.02"/><rect x="18" y="33" width="1.02" height="1.02"/><rect x="19" y="33" width="1.02" height="1.02"/><rect x="20" y="33" width="1.02" height="1.02"/><rect x="23" y="33" width="1.02" height="1.02"/><rect x="24" y="33" width="1.02" height="1.02"/><rect x="27" y="33" width="1.02" height="1.02"/><rect x="28" y="33" width="1.02" height="1.02"/><rect x="29" y="33" width="1.02" height="1.02"/><rect x="31" y="33" width="1.02" height="1.02"/><rect x="32" y="33" width="1.02" height="1.02"/><rect x="36" y="33" width="1.02" height="1.02"/><rect x="37" y="33" width="1.02" height="1.02"/><rect x="40" y="33" width="1.02" height="1.02"/><rect x="0" y="34" width="1.02" height="1.02"/><rect x="1" y="34" width="1.02" height="1.02"/><rect x="2" y="34" width="1.02" height="1.02"/><rect x="3" y="34" width="1.02" height="1.02"/><rect x="4" y="34" width="1.02" height="1.02"/><rect x="5" y="34" width="1.02" height="1.02"/><rect x="6" y="34" width="1.02" height="1.02"/><rect x="11" y="34" width="1.02" height="1.02"/><rect x="12" y="34" width="1.02" height="1.02"/><rect x="14" y="34" width="1.02" height="1.02"/><rect x="18" y="34" width="1.02" height="1.02"/><rect x="19" y="34" width="1.02" height="1.02"/><rect x="21" y="34" width="1.02" height="1.02"/><rect x="22" y="34" width="1.02" height="1.02"/><rect x="23" y="34" width="1.02" height="1.02"/><rect x="25" y="34" width="1.02" height="1.02"/><rect x="26" y="34" width="1.02" height="1.02"/><rect x="27" y="34" width="1.02" height="1.02"/><rect x="32" y="34" width="1.02" height="1.02"/><rect x="34" y="34" width="1.02" height="1.02"/><rect x="36" y="34" width="1.02" height="1.02"/><rect x="38" y="34" width="1.02" height="1.02"/><rect x="39" y="34" width="1.02" height="1.02"/><rect x="40" y="34" width="1.02" height="1.02"/><rect x="0" y="35" width="1.02" height="1.02"/><rect x="6" y="35" width="1.02" height="1.02"/><rect x="9" y="35" width="1.02" height="1.02"/><rect x="11" y="35" width="1.02" height="1.02"/><rect x="13" y="35" width="1.02" height="1.02"/><rect x="15" y="35" width="1.02" height="1.02"/><rect x="16" y="35" width="1.02" height="1.02"/><rect x="17" y="35" width="1.02" height="1.02"/><rect x="20" y="35" width="1.02" height="1.02"/><rect x="21" y="35" width="1.02" height="1.02"/><rect x="22" y="35" width="1.02" height="1.02"/><rect x="24" y="35" width="1.02" height="1.02"/><rect x="26" y="35" width="1.02" height="1.02"/><rect x="30" y="35" width="1.02" height="1.02"/><rect x="31" y="35" width="1.02" height="1.02"/><rect x="32" y="35" width="1.02" height="1.02"/><rect x="36" y="35" width="1.02" height="1.02"/><rect x="37" y="35" width="1.02" height="1.02"/><rect x="39" y="35" width="1.02" height="1.02"/><rect x="0" y="36" width="1.02" height="1.02"/><rect x="2" y="36" width="1.02" height="1.02"/><rect x="3" y="36" width="1.02" height="1.02"/><rect x="4" y="36" width="1.02" height="1.02"/><rect x="6" y="36" width="1.02" height="1.02"/><rect x="11" y="36" width="1.02" height="1.02"/><rect x="12" y="36" width="1.02" height="1.02"/><rect x="13" y="36" width="1.02" height="1.02"/><rect x="21" y="36" width="1.02" height="1.02"/><rect x="22" y="36" width="1.02" height="1.02"/><rect x="23" y="36" width="1.02" height="1.02"/><rect x="24" y="36" width="1.02" height="1.02"/><rect x="27" y="36" width="1.02" height="1.02"/><rect x="28" y="36" width="1.02" height="1.02"/><rect x="31" y="36" width="1.02" height="1.02"/><rect x="32" y="36" width="1.02" height="1.02"/><rect x="33" y="36" width="1.02" height="1.02"/><rect x="34" y="36" width="1.02" height="1.02"/><rect x="35" y="36" width="1.02" height="1.02"/><rect x="36" y="36" width="1.02" height="1.02"/><rect x="0" y="37" width="1.02" height="1.02"/><rect x="2" y="37" width="1.02" height="1.02"/><rect x="3" y="37" width="1.02" height="1.02"/><rect x="4" y="37" width="1.02" height="1.02"/><rect x="6" y="37" width="1.02" height="1.02"/><rect x="12" y="37" width="1.02" height="1.02"/><rect x="13" y="37" width="1.02" height="1.02"/><rect x="14" y="37" width="1.02" height="1.02"/><rect x="16" y="37" width="1.02" height="1.02"/><rect x="20" y="37" width="1.02" height="1.02"/><rect x="21" y="37" width="1.02" height="1.02"/><rect x="23" y="37" width="1.02" height="1.02"/><rect x="24" y="37" width="1.02" height="1.02"/><rect x="26" y="37" width="1.02" height="1.02"/><rect x="27" y="37" width="1.02" height="1.02"/><rect x="28" y="37" width="1.02" height="1.02"/><rect x="31" y="37" width="1.02" height="1.02"/><rect x="32" y="37" width="1.02" height="1.02"/><rect x="35" y="37" width="1.02" height="1.02"/><rect x="36" y="37" width="1.02" height="1.02"/><rect x="37" y="37" width="1.02" height="1.02"/><rect x="38" y="37" width="1.02" height="1.02"/><rect x="0" y="38" width="1.02" height="1.02"/><rect x="2" y="38" width="1.02" height="1.02"/><rect x="3" y="38" width="1.02" height="1.02"/><rect x="4" y="38" width="1.02" height="1.02"/><rect x="6" y="38" width="1.02" height="1.02"/><rect x="8" y="38" width="1.02" height="1.02"/><rect x="9" y="38" width="1.02" height="1.02"/><rect x="10" y="38" width="1.02" height="1.02"/><rect x="11" y="38" width="1.02" height="1.02"/><rect x="16" y="38" width="1.02" height="1.02"/><rect x="17" y="38" width="1.02" height="1.02"/><rect x="20" y="38" width="1.02" height="1.02"/><rect x="21" y="38" width="1.02" height="1.02"/><rect x="22" y="38" width="1.02" height="1.02"/><rect x="23" y="38" width="1.02" height="1.02"/><rect x="26" y="38" width="1.02" height="1.02"/><rect x="27" y="38" width="1.02" height="1.02"/><rect x="29" y="38" width="1.02" height="1.02"/><rect x="33" y="38" width="1.02" height="1.02"/><rect x="36" y="38" width="1.02" height="1.02"/><rect x="38" y="38" width="1.02" height="1.02"/><rect x="40" y="38" width="1.02" height="1.02"/><rect x="0" y="39" width="1.02" height="1.02"/><rect x="6" y="39" width="1.02" height="1.02"/><rect x="8" y="39" width="1.02" height="1.02"/><rect x="9" y="39" width="1.02" height="1.02"/><rect x="10" y="39" width="1.02" height="1.02"/><rect x="11" y="39" width="1.02" height="1.02"/><rect x="12" y="39" width="1.02" height="1.02"/><rect x="15" y="39" width="1.02" height="1.02"/><rect x="16" y="39" width="1.02" height="1.02"/><rect x="18" y="39" width="1.02" height="1.02"/><rect x="20" y="39" width="1.02" height="1.02"/><rect x="24" y="39" width="1.02" height="1.02"/><rect x="26" y="39" width="1.02" height="1.02"/><rect x="27" y="39" width="1.02" height="1.02"/><rect x="32" y="39" width="1.02" height="1.02"/><rect x="37" y="39" width="1.02" height="1.02"/><rect x="0" y="40" width="1.02" height="1.02"/><rect x="1" y="40" width="1.02" height="1.02"/><rect x="2" y="40" width="1.02" height="1.02"/><rect x="3" y="40" width="1.02" height="1.02"/><rect x="4" y="40" width="1.02" height="1.02"/><rect x="5" y="40" width="1.02" height="1.02"/><rect x="6" y="40" width="1.02" height="1.02"/><rect x="9" y="40" width="1.02" height="1.02"/><rect x="11" y="40" width="1.02" height="1.02"/><rect x="13" y="40" width="1.02" height="1.02"/><rect x="15" y="40" width="1.02" height="1.02"/><rect x="16" y="40" width="1.02" height="1.02"/><rect x="17" y="40" width="1.02" height="1.02"/><rect x="19" y="40" width="1.02" height="1.02"/><rect x="20" y="40" width="1.02" height="1.02"/><rect x="21" y="40" width="1.02" height="1.02"/><rect x="23" y="40" width="1.02" height="1.02"/><rect x="24" y="40" width="1.02" height="1.02"/><rect x="28" y="40" width="1.02" height="1.02"/><rect x="32" y="40" width="1.02" height="1.02"/><rect x="36" y="40" width="1.02" height="1.02"/><rect x="37" y="40" width="1.02" height="1.02"/><rect x="40" y="40" width="1.02" height="1.02"/></g></svg></div>
 <div class="cta"><strong>امسح<br>وحمّل الحين</strong><span>مجاني · أندرويد</span><small>افتح الكاميرا ووجّهها على الباركود</small></div>
